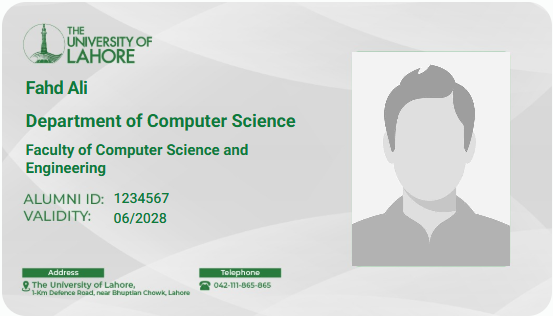
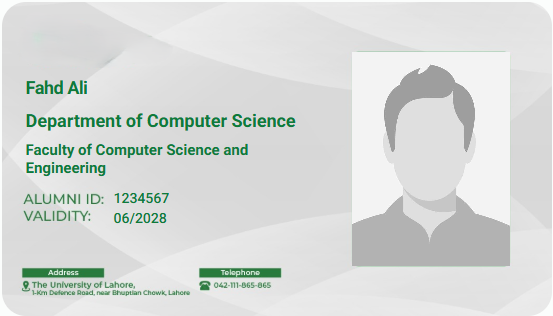
Remove outdated card picture JPG and update national chapter layout in index.html, enhancing structure and visual consistency by consolidating chapter links.

Changed region(s): [[0.0307, 0.057, 0.2767, 0.1994]]

diff --git a/chapters/national/index.html b/chapters/national/index.html
@@ -201,29 +201,9 @@
             <p class="mb-40">         <p>Our alumni chapters around the world create local networks that help keep the UOL spirit alive, no matter where our graduates are. These chapters organize regional events, strengthen professional and social connections and provide opportunities for alumni to engage with their peers and support university initiatives. They serve as vibrant communities that strengthen the global UOL alumni network.</p>
          </p>
             <div class="row align-items-start">
-               <!-- Left Side: Pakistan Map -->
-               <div class="col-lg-6 col-md-12 mb-30 mb-lg-0">
-                  <div class="tp-chapter-section chapter-area">
-                     <div class="tp-chapter-section-inner position-relative">
-                        <div class="tp-chapter-map-wrapper position-relative">
-                           <div id="map"></div>
-                           <!-- Map Legend -->
-                           <div class="tp-map-legend">
-                              <div class="tp-map-legend-item">
-                                 <div class="tp-map-legend-circle active"></div>
-                                 <span class="tp-map-legend-caption">Active Chapters</span>
-                              </div>
-                              <div class="tp-map-legend-item">
-                                 <div class="tp-map-legend-circle coming"></div>
-                                 <span class="tp-map-legend-caption">Upcoming Chapters</span>
-                              </div>
-                           </div>
-                        </div>
-                     </div>
-                  </div>
-               </div>
+            
                <!-- Right Side: National Chapters Links -->
-               <div class="col-lg-6 col-md-12">
+               <div class="col-12">
                   <div class="tp-national-chapters-links" id="national-chapters-links">
                      <!-- Links will be loaded dynamically -->
                   </div>
